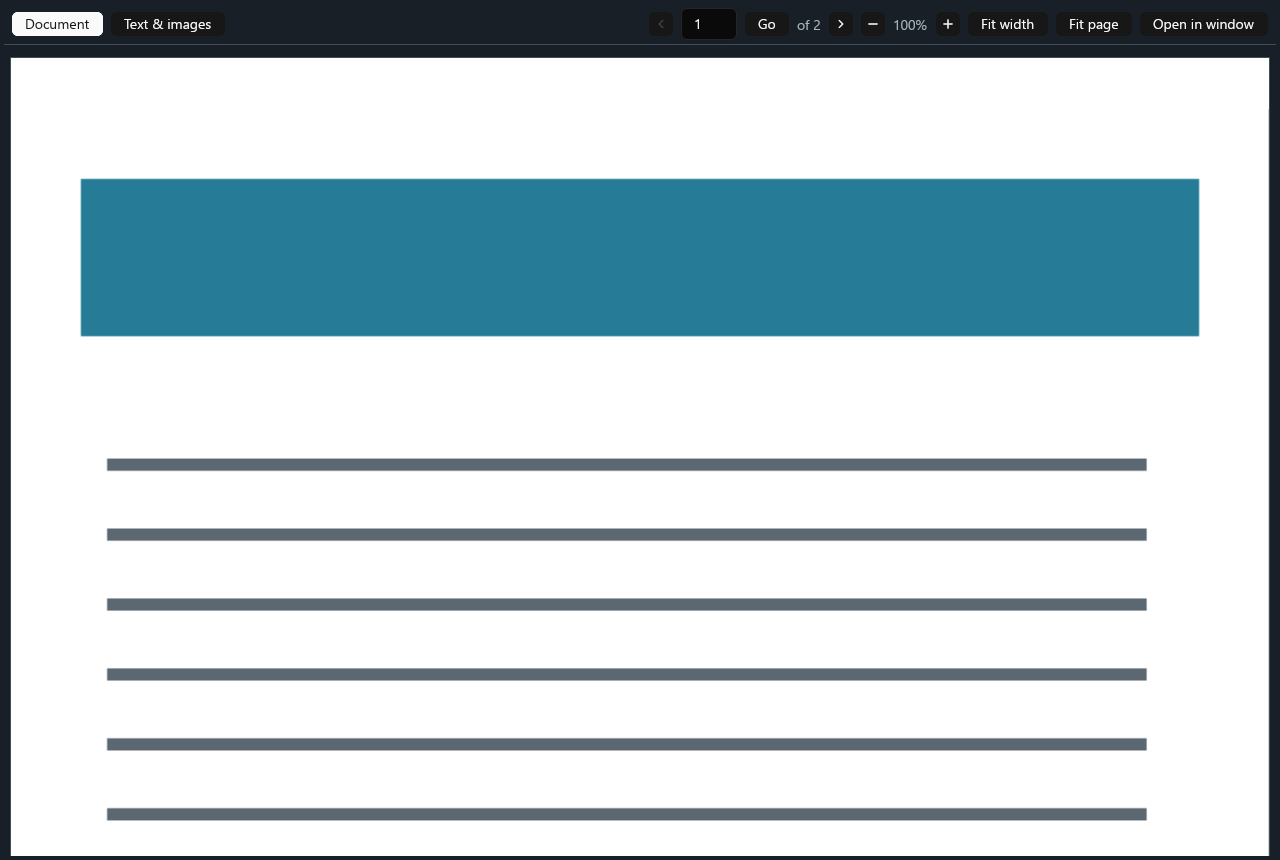
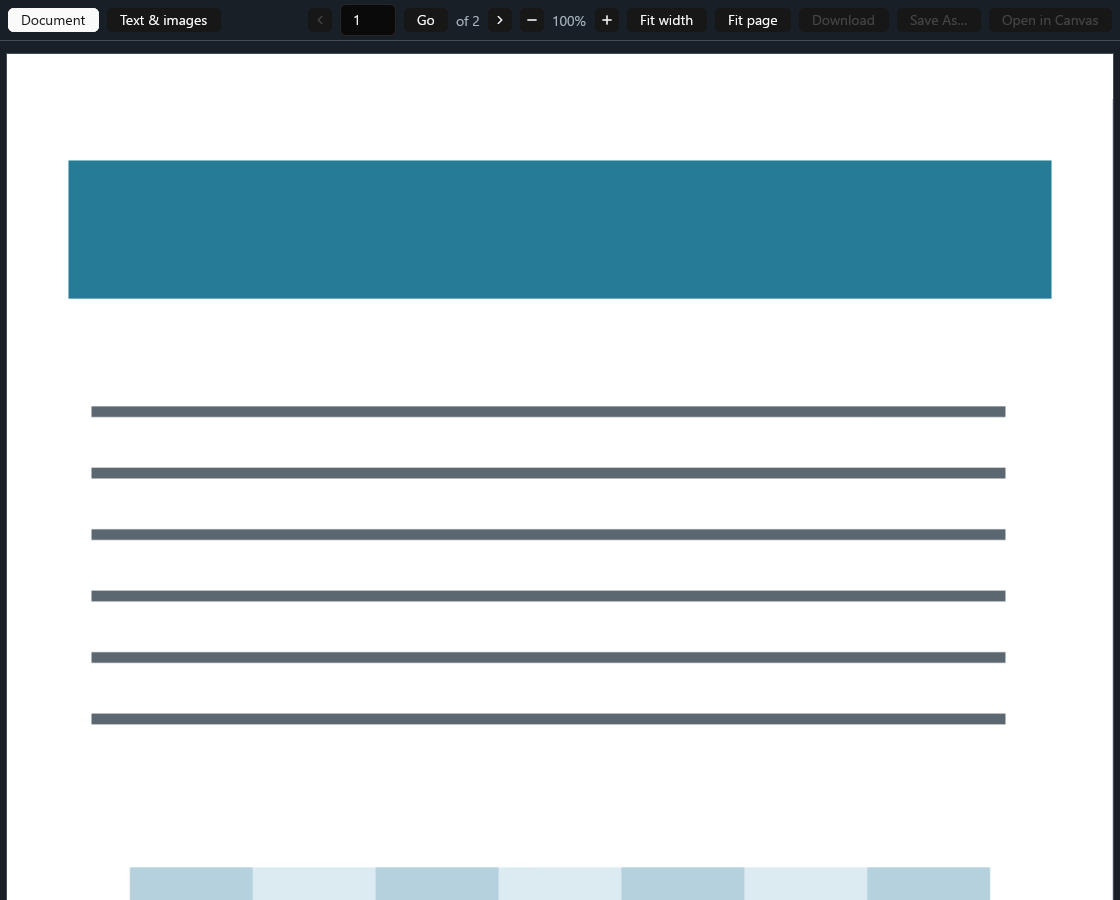
Add download and Open in Canvas actions to the reader
Expose Download, Save As, and Open in Canvas in the reader window
toolbar, show download completion/errors inside the standalone reader,
and construct the file page URL from the internal course and file IDs.

diff --git a/src/views.rs b/src/views.rs
@@ -246,6 +246,90 @@ impl CanvasApp {
         }
         files.into_any_element()
     }
+    /// Reader windows do not render the main app chrome, so download and error
+    /// feedback need their own compact strip under the toolbar.
+    fn reader_notice(&self, cx: &mut Context<Self>) -> Option<AnyElement> {
+        let colors = palette(cx);
+        if let Some(error) = &self.error {
+            return Some(
+                div()
+                    .mx_2()
+                    .mt_2()
+                    .p_3()
+                    .rounded_sm()
+                    .border_1()
+                    .border_color(rgb(colors.warning_border))
+                    .bg(rgb(colors.warning))
+                    .flex()
+                    .items_center()
+                    .gap_3()
+                    .child(
+                        div()
+                            .flex_1()
+                            .text_sm()
+                            .child(if self.show_technical {
+                                error.clone()
+                            } else {
+                                "Canvas could not complete the last request. Try again, or open Account to sign in again.".into()
+                            }),
+                    )
+                    .child(
+                        Button::new("reader-dismiss-error")
+                            .icon(IconName::Close)
+                            .small()
+                            .on_click(cx.listener(|this, _, _, cx| {
+                                this.error = None;
+                                cx.notify();
+                            })),
+                    )
+                    .into_any_element(),
+            );
+        }
+        let path = self.last_saved.as_ref()?;
+        let open = path.clone();
+        let reveal = path.clone();
+        let name = path
+            .file_name()
+            .unwrap_or_default()
+            .to_string_lossy()
+            .to_string();
+        Some(
+            div()
+                .mx_2()
+                .mt_2()
+                .p_3()
+                .rounded_sm()
+                .border_1()
+                .border_color(rgb(colors.border))
+                .bg(rgb(colors.notice))
+                .flex()
+                .items_center()
+                .gap_3()
+                .child(div().flex_1().text_sm().child(format!("Downloaded {name}")))
+                .child(
+                    Button::new("reader-open-download")
+                        .label("Open")
+                        .small()
+                        .on_click(move |_, _, cx| cx.open_with_system(&open)),
+                )
+                .child(
+                    Button::new("reader-reveal-download")
+                        .label("Show in folder")
+                        .small()
+                        .on_click(move |_, _, cx| cx.reveal_path(&reveal)),
+                )
+                .child(
+                    Button::new("reader-dismiss-download")
+                        .icon(IconName::Close)
+                        .small()
+                        .on_click(cx.listener(|this, _, _, cx| {
+                            this.last_saved = None;
+                            cx.notify();
+                        })),
+                )
+                .into_any_element(),
+        )
+    }
     fn web_link(&self, id: impl Into<SharedString>, label: &str, url: &str) -> AnyElement {
         let url = url.to_owned();
         let safe = url::Url::parse(&url).is_ok_and(|u| {
@@ -1946,7 +2030,51 @@ impl CanvasApp {
                 );
             }
         }
+        if layout != ReaderLayout::Embedded {
+            if self.document_view == DocumentView::Text {
+                bar = bar.child(div().flex_1());
+            }
+            let download = document.clone();
+            let save_as = document.clone();
+            let canvas_url = self.document_canvas_url(document);
+            let open_disabled = self.demo || canvas_url.is_none();
+            bar = bar
+                .child(
+                    Button::new("document-download")
+                        .label("Download")
+                        .small()
+                        .disabled(self.demo)
+                        .on_click(cx.listener(move |this, _, _, cx| {
+                            this.download_document(&download, false, cx)
+                        })),
+                )
+                .child(
+                    Button::new("document-save-as")
+                        .label("Save As…")
+                        .small()
+                        .disabled(self.demo)
+                        .on_click(cx.listener(move |this, _, _, cx| {
+                            this.download_document(&save_as, true, cx)
+                        })),
+                )
+                .child(
+                    Button::new("document-open-canvas")
+                        .label("Open in Canvas")
+                        .small()
+                        .disabled(open_disabled)
+                        .on_click(cx.listener(move |_, _, _, cx| {
+                            if let Some(url) = canvas_url.as_deref() {
+                                cx.open_url(url);
+                            }
+                        })),
+                );
+        }
         view = view.child(bar);
+        if layout == ReaderLayout::Window
+            && let Some(notice) = self.reader_notice(cx)
+        {
+            view = view.child(notice);
+        }
         if self.document_view == DocumentView::Text {
             return view
                 .child(self.document_text(

diff --git a/src/app.rs b/src/app.rs
@@ -1097,7 +1097,7 @@ impl CanvasApp {
                                 this.data.retain(|k,_|!k.starts_with("dashboard_items:")&&!k.starts_with("planner_note_info:"));
                                 this.note=None;this.confirm_save=false;this.confirm_delete=None;this.route=Route::Calendar;this.load_route(cx);
                             },
-                            Operation::Tool{name,..} if name=="download_attachment"=>{this.last_saved=payload["saved_path"].as_str().map(PathBuf::from);},
+                            Operation::Tool{name,..} if name=="download_attachment"=>{this.error=None;this.last_saved=payload["saved_path"].as_str().map(PathBuf::from);},
                             Operation::Tool{name,..} if name=="module_list"=>{
                                 if let Some((course,index))=prepared_module.take(){this.module_indexes.insert(course,index);this.rebuild_module_rows(cx);}
                             },
@@ -1264,7 +1264,25 @@ impl CanvasApp {
             cx,
         );
     }
+    fn document_canvas_url(&self, document: &DocumentSelection) -> Option<String> {
+        document_canvas_url(&self.settings.origin, document)
+    }
+    fn download_document(
+        &mut self,
+        document: &DocumentSelection,
+        save_as: bool,
+        cx: &mut Context<Self>,
+    ) {
+        let file = json!({
+            "resource": document.resource,
+            "download_resource": document.resource,
+            "filename": document.title,
+            "display_name": document.title,
+        });
+        self.download(&file, save_as, cx);
+    }
     fn download(&mut self, file: &Value, save_as: bool, cx: &mut Context<Self>) {
+        self.error = None;
         let resource = field(file, "download_resource");
         let resource = if resource.is_empty() {
             field(file, "resource")
@@ -1379,6 +1397,21 @@ fn operation_label(operation: &Operation) -> &'static str {
         },
     }
 }
+fn document_canvas_url(origin: &str, document: &DocumentSelection) -> Option<String> {
+    let origin = origin.trim().trim_end_matches('/');
+    if origin.is_empty() {
+        return None;
+    }
+    let file_id = crate::engine::extract_file_id_from_resource(&document.resource)?;
+    let course = document
+        .course
+        .as_deref()
+        .filter(|course| course.chars().all(|character| character.is_ascii_digit()));
+    Some(match course {
+        Some(course) => format!("{origin}/courses/{course}/files/{file_id}"),
+        None => format!("{origin}/files/{file_id}"),
+    })
+}
 fn document_from_file(course: &str, file: &Value) -> Option<DocumentSelection> {
     let resource = file["resource"]
         .as_str()
@@ -1440,6 +1473,30 @@ mod reader_layout_tests {
             "canvas://files/8/download"
         );
         assert!(document_from_file("4", &json!({"resource": ""})).is_none());
+    }
+
+    #[test]
+    fn document_canvas_url_uses_internal_course_and_file_ids() {
+        let document = DocumentSelection {
+            course: Some("4".into()),
+            resource: "canvas://files/77/download".into(),
+            title: "Syllabus.pdf".into(),
+            start: 0,
+        };
+        assert_eq!(
+            document_canvas_url("https://canvas.example.edu/", &document).as_deref(),
+            Some("https://canvas.example.edu/courses/4/files/77")
+        );
+        let mut no_course = document.clone();
+        no_course.course = None;
+        assert_eq!(
+            document_canvas_url("https://canvas.example.edu", &no_course).as_deref(),
+            Some("https://canvas.example.edu/files/77")
+        );
+        let mut not_a_file = document;
+        not_a_file.resource = "canvas://modules/9".into();
+        assert!(document_canvas_url("https://canvas.example.edu", &not_a_file).is_none());
+        assert!(document_canvas_url("", &not_a_file).is_none());
     }
 
     /// Scrolling through more than the decoded-image cache evicts early pages.

diff --git a/src/engine.rs b/src/engine.rs
@@ -10,6 +10,7 @@ use std::io::{Cursor, Read};
 
 #[path = "canvas_api.rs"]
 mod api;
+pub(crate) use api::extract_file_id_from_resource;
 
 #[derive(Debug, serde::Deserialize)]
 struct AssignmentInfoParams {

diff --git a/README.md b/README.md
@@ -14,7 +14,8 @@ login.
 | --- | --- |
 | ![Dashboard in the sample account](docs/screenshots/dashboard.png) | ![Document reader in the sample account](docs/screenshots/reader.png) |
 
-*Screenshots use the built-in sample account; no real account data is shown.*
+*Screenshots use the built-in sample account; no real account data is shown.
+File actions are disabled there because the sample account has no Canvas session.*
 
 ## Features
 
@@ -23,7 +24,8 @@ login.
 - Virtualized module lists and on-demand loading for large courses.
 - Continuous-scroll PDF reader rendered in-process by
   [hayro](https://github.com/LaurenzV/hayro); page navigation, jump-to-page,
-  25–200% zoom, fit width, fit page, and selectable text/images.
+  25–200% zoom, fit width, fit page, selectable text/images, Download,
+  Save As…, and Open in Canvas.
 - Document links open in a separate reader window, leaving the current list in
   place. Canvas HTML links to files are routed to the same native reader.
 - Institutional login through the platform browser; no Canvas API token needed.
@@ -171,7 +173,8 @@ on the input platform. Virtualization and animated scrolling are separate things
   native reader actions instead of opening the system browser. A file with a
   readable resource opens in that window; the metadata card is only used when no
   resource is available. PDFs scroll continuously through rendered pages, with a
-  compact toolbar for page navigation, jump, 25–200% zoom, fit width and fit page. Pages
+  compact toolbar for page navigation, jump, 25–200% zoom, fit width, fit page,
+  Download, Save As…, and Open in Canvas. Pages
   are rendered on demand as they scroll into view, and the next pages are prepared
   in the background. Above 100% a page is wider than the reader column and scrolls
   sideways inside its own row; a page that fails to render offers a Retry.
@@ -314,12 +317,12 @@ it does not launch the native UI or change course/account data.
 
 ## Verification boundaries
 
-Verified for this revision: a real release build, all 107 non-ignored tests in
+Verified for this revision: a real release build, all 108 non-ignored tests in
 the release profile, formatting, Clippy with warnings denied, and
 the complete 24-operation catalog. Shared-desktop automation has been removed; this project must
 not send pointer or keyboard input to `:0` (see `AGENTS.md`).
 
-The isolated 108-test run (which includes the X11 icon test) passed. The PDF
+The isolated 109-test run (which includes the X11 icon test) passed. The PDF
 integration test now runs without Poppler and verifies real two-page hayro
 raster output, page dimensions/center colors, source and raster reuse, and cache
 deletion. Local HTTP tests verify parallel partial-module loading, targeted grade
@@ -357,8 +360,10 @@ reader instead of the system browser. Pages were rasterized by hayro at fit
 width; the reader scrolled from page 1 to page 14 and back, and page 1 rendered
 again after its decoded image had been evicted. Fit page showed a whole page at
 58%; wheel scrolling moved continuously into page 2; typing a page number and
-pressing Go jumped to it; Text & images
-rendered extracted text; both light and dark appearance looked correct. The
+pressing Go jumped to it; Download saved the PDF and showed the completion strip
+with Open and Show in folder; the Open in Canvas URL construction is unit-tested
+but was not clicked. Text & images rendered extracted text; both light and dark
+appearance looked correct. The
 global navigation's top book icon is gone. Course cards were checked at 1280 and
 940 window widths: the three shortcut buttons occupy equal thirds, and the
 rounded corners use a shadow edge with no stepped gray border ring. Plain Xvfb
